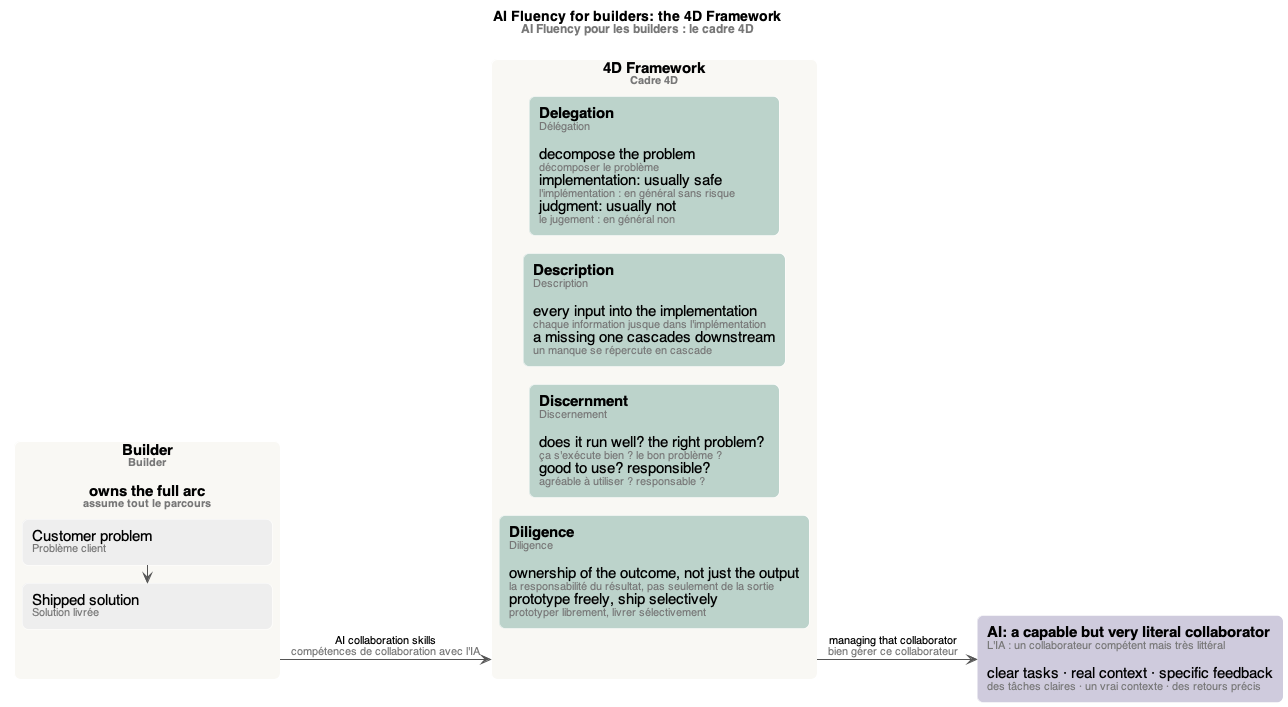
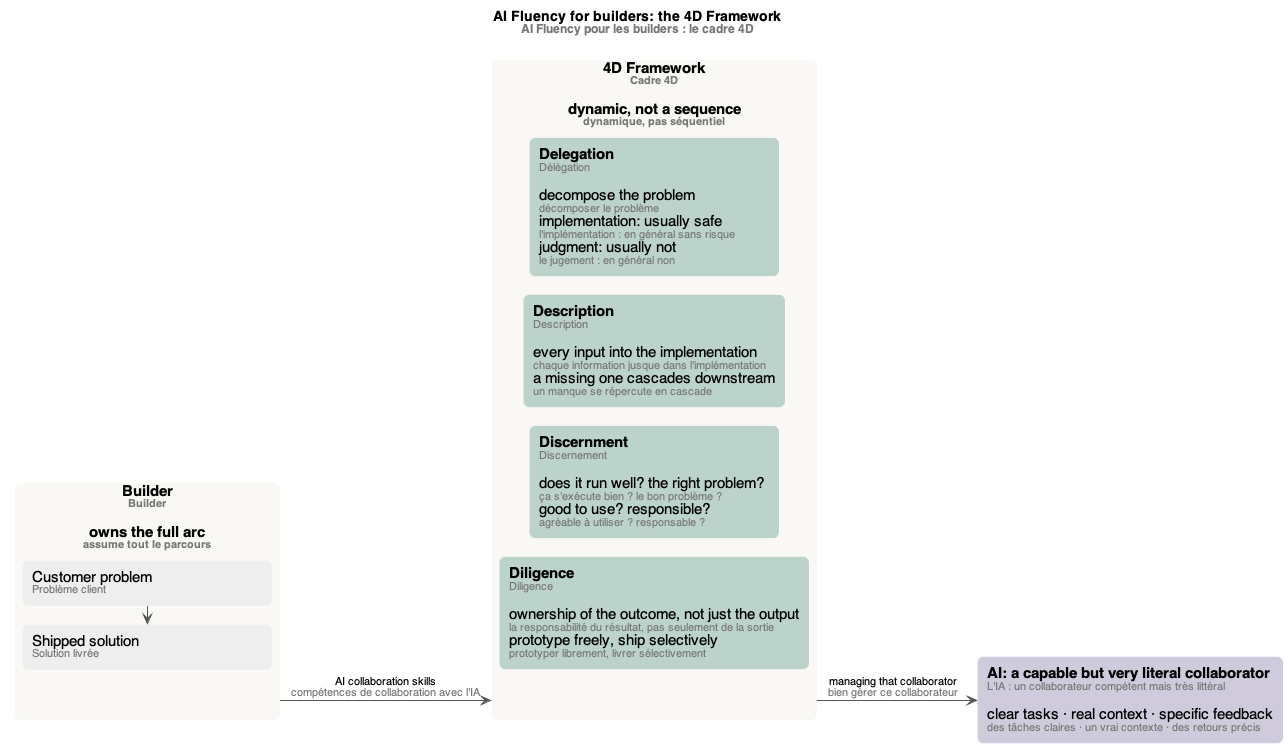
docs: add the closing lesson's takeaways to the builder entries and 4D map

diff --git a/02-ai-fluency-for-builders/index.md b/02-ai-fluency-for-builders/index.md
@@ -15,7 +15,7 @@ Schémas, avec un sommaire et une légende pour chacun : [mindmap.md](mindmap.md
 
 ### Builder *(Builder)*
 
-Someone who owns the full arc from customer problem to shipped solution: figuring out what problem was actually worth solving, making hundreds of small decisions about how it should work, then getting it into people's hands and learning from what happened next. Writing code is only a small part of the job: a builder owns the full building process, not just the coding slice in the middle. Builders (product people, engineers, designers and makers) are uniquely positioned to leverage AI to amplify what they create, but only if they can approach it intentionally, with clear judgment and purpose; AI is changing almost every part of that process. Their AI collaboration skills are the [4D Framework](#4d-framework-cadre-4d) applied to real builder tasks, from framing a customer problem to shipping a product, integrating AI responsibly across the full arc of building. Every builder carries a [toolkit](#builders-toolkit-boîte-à-outils-du-builder) of six capabilities. The builders who thrive in this era won't be the ones who prompt the fastest: they will be the ones who frame problems clearly, who know what good looks like before they start, and who can tell the difference between code that runs and code that matters. The builder is the translator at every step of the [Description Chain](#description-chain-chaîne-de-description), and builders who carefully describe all aspects of the problem get the best results with AI.
+Someone who owns the full arc from customer problem to shipped solution: figuring out what problem was actually worth solving, making hundreds of small decisions about how it should work, then getting it into people's hands and learning from what happened next. Writing code is only a small part of the job: a builder owns the full building process, not just the coding slice in the middle. Builders (product people, engineers, designers and makers) are uniquely positioned to leverage AI to amplify what they create, but only if they can approach it intentionally, with clear judgment and purpose; AI is changing almost every part of that process. Their AI collaboration skills are the [4D Framework](#4d-framework-cadre-4d) applied to real builder tasks, from framing a customer problem to shipping a product, integrating AI responsibly across the full arc of building. Every builder carries a [toolkit](#builders-toolkit-boîte-à-outils-du-builder) of six capabilities. The builders who thrive in this era won't be the ones who prompt the fastest: they will be the ones who frame problems clearly, who know what good looks like before they start, and who can tell the difference between code that runs and code that matters. The builder is the translator at every step of the [Description Chain](#description-chain-chaîne-de-description), and builders who carefully describe all aspects of the problem get the best results with AI. The builder's job isn't to defend the software: it's to serve the user. The builders who will do the most interesting things with AI in the next few years aren't the ones who automate the most: they know when to delegate, and when to stay in the loop, and care enough about their users to not just ship something because it compiles.
 
 → [schéma des 4D du builder](mindmap/builder-4ds.png)
 
@@ -27,13 +27,13 @@ The ability to work with AI systems in ways that are effective, efficient, ethic
 
 ### 4D Framework *(Cadre 4D)*
 
-The framework at the center of the course, developed by professors Joseph Feller and Rick Dakan in collaboration with Anthropic. It consists of four competencies: [Delegation](#delegation-délégation), [Description](#description-description), [Discernment](#discernment-discernement) and [Diligence](#diligence-diligence), the four competencies behind every productive AI collaboration. Think of them as the operating system underneath every collaboration you have with AI; they anchor every lesson of the course. Most AI failures trace back to Description, Discernment, or Diligence failures made earlier. Two modes of interaction: the [inner loop](#inner-loop-boucle-interne) (Description and Discernment) guides daily AI interactions; the [outer loop](#outer-loop-boucle-externe) (Delegation and Diligence) guides bigger decisions about when and how to use AI. The 4Ds come alive when you use them together; the framework is about making you more effective at the work that matters, work that requires human judgment, creativity, and deep understanding of your context. The competencies of [AI Fluency](#ai-fluency-ai-fluency).
+The framework at the center of the course, developed by professors Joseph Feller and Rick Dakan in collaboration with Anthropic. It consists of four competencies: [Delegation](#delegation-délégation), [Description](#description-description), [Discernment](#discernment-discernement) and [Diligence](#diligence-diligence), the four competencies behind every productive AI collaboration. Think of them as the operating system underneath every collaboration you have with AI; they anchor every lesson of the course. Most AI failures trace back to Description, Discernment, or Diligence failures made earlier. Two modes of interaction: the [inner loop](#inner-loop-boucle-interne) (Description and Discernment) guides daily AI interactions; the [outer loop](#outer-loop-boucle-externe) (Delegation and Diligence) guides bigger decisions about when and how to use AI. The 4Ds come alive when you use them together; the framework is about making you more effective at the work that matters, work that requires human judgment, creativity, and deep understanding of your context. The 4Ds are dynamic, not a sequence: you'll move from Delegation to Description, back to Discernment, and realize you want to delegate differently; moving fluidly between them as you build is what fluency looks like in practice. The competencies of [AI Fluency](#ai-fluency-ai-fluency).
 
 → [schéma des 4D du builder](mindmap/builder-4ds.png)
 
 ### Delegation *(Délégation)*
 
-Decomposing a problem into parts and deciding what role AI plays at each stage: if, when and where to delegate to AI in the builder process, and defining done before you write a line of code. Delegating [implementation](#implementation-implémentation) to AI is usually fine (safe); delegating [judgment](#judgment-jugement), the call about whether something is actually good and ready, is usually not advised. The best builders know the difference. Delegation means deciding what AI handles and what stays with you: what work should be done by humans, what work should be done by AI, and how to distribute tasks between them. Good Delegation starts with understanding the work itself (a routine status update where AI can handle a first draft, or a sensitive negotiation where tone and nuance need to come directly from you), and you need to understand your tools as well (with confidential data, the privacy and security features of the AI system you're using); then you can thoughtfully split tasks to leverage the strengths of each. In the builder sense, imagine yourself as the lead on a project and AI as your team: a great lead doesn't just assign tasks; they frame the problem so everyone understands what they're solving, set goals so the team knows what good looks like, decide what to tackle first, and know which decisions to make themselves and which ones to hand off. It starts well before any code gets written: decomposing the problem first, then deciding what AI handles at each step, across the [builder's toolkit](#builders-toolkit-boîte-à-outils-du-builder). Good Delegation in practice: spending real time at the beginning of a project getting clear on who you're building for and defining what success means ([acceptance tests](#acceptance-test-test-dacceptation)), inspecting the results skeptically, and keeping judgment calls in your own hands. Resist the temptation, once you have a tool that can write code instantly, to skip straight to building and treat empathy and design work as overhead. With Diligence, it forms the [outer loop](#outer-loop-boucle-externe). One of the competencies of the [4D Framework](#4d-framework-cadre-4d).
+Decomposing a problem into parts and deciding what role AI plays at each stage: if, when and where to delegate to AI in the builder process, and defining done before you write a line of code. Delegating [implementation](#implementation-implémentation) to AI is usually fine (safe); delegating [judgment](#judgment-jugement), the call about whether something is actually good and ready, is usually not advised. The best builders know the difference. Delegation means deciding what AI handles and what stays with you: what work should be done by humans, what work should be done by AI, and how to distribute tasks between them. Good Delegation starts with understanding the work itself (a routine status update where AI can handle a first draft, or a sensitive negotiation where tone and nuance need to come directly from you), and you need to understand your tools as well (with confidential data, the privacy and security features of the AI system you're using); then you can thoughtfully split tasks to leverage the strengths of each. In the builder sense, imagine yourself as the lead on a project and AI as your team: a great lead doesn't just assign tasks; they frame the problem so everyone understands what they're solving, set goals so the team knows what good looks like, decide what to tackle first, and know which decisions to make themselves and which ones to hand off. It starts well before any code gets written: decomposing the problem first, then deciding what AI handles at each step, across the [builder's toolkit](#builders-toolkit-boîte-à-outils-du-builder). Good Delegation in practice: spending real time at the beginning of a project getting clear on who you're building for and defining what success means ([acceptance tests](#acceptance-test-test-dacceptation)), inspecting the results skeptically, and keeping judgment calls in your own hands. Break the problem down: the parts of the work that genuinely benefit from AI (implementation, scaffolding, boilerplate, first drafts of specs) are strong candidates; the judgment calls, the understanding of who your user actually is and what they might be struggling with, and the decision about whether the thing you built is actually the right thing belong to you. Resist the temptation, once you have a tool that can write code instantly, to skip straight to building and treat empathy and design work as overhead. With Diligence, it forms the [outer loop](#outer-loop-boucle-externe). One of the competencies of the [4D Framework](#4d-framework-cadre-4d).
 
 → [schéma des 4D du builder](mindmap/builder-4ds.png)
 
@@ -45,13 +45,13 @@ A builder's ability to ensure that every input, from user voice to product requi
 
 ### Discernment *(Discernement)*
 
-How you evaluate what AI gives you: not just does it run, but does it run well? Does it solve the right problem? Is it actually good to use, and is it responsible? You evaluate AI output against what actually matters: correctness, quality, fit, experience, and responsibility. AI has real blind spots: it can produce code that's locally correct, but breaks under load, or generate UX that's functional, but confusing. Discernment is the skill of catching those gaps before your users do. Discernment means evaluating what AI gives back before acting on it, thoughtfully and critically: start with the output itself, then look at how AI got there. It doesn't just mean accepting or rejecting AI outputs: it involves iteration to get where you want to go. While most people describe what they want fairly naturally, Discernment is much rarer: questioning AI's reasoning, checking facts, and identifying missing context were among the least common behaviors observed. Its structure: the [Five Lenses of Discernment](#five-lenses-of-discernment-cinq-angles-du-discernement), five questions to ask of anything that AI builds. With Description, it forms the [inner loop](#inner-loop-boucle-interne). One of the competencies of the [4D Framework](#4d-framework-cadre-4d).
+How you evaluate what AI gives you: not just does it run, but does it run well? Does it solve the right problem? Is it actually good to use, and is it responsible? You evaluate AI output against what actually matters: correctness, quality, fit, experience, and responsibility. AI has real blind spots: it can produce code that's locally correct, but breaks under load, or generate UX that's functional, but confusing. Discernment is the skill of catching those gaps before your users do. Apply it before shipping: AI output often passes « Does it work? » but stumbles on « Is it the right thing? », and those gaps are where your judgment matters most. Sometimes AI builds the thing you describe, but not the thing that solves the problem; or it builds the thing that works, but one that people don't want to use. Discernment means evaluating what AI gives back before acting on it, thoughtfully and critically: start with the output itself, then look at how AI got there. It doesn't just mean accepting or rejecting AI outputs: it involves iteration to get where you want to go. While most people describe what they want fairly naturally, Discernment is much rarer: questioning AI's reasoning, checking facts, and identifying missing context were among the least common behaviors observed. Its structure: the [Five Lenses of Discernment](#five-lenses-of-discernment-cinq-angles-du-discernement), five questions to ask of anything that AI builds. With Description, it forms the [inner loop](#inner-loop-boucle-interne). One of the competencies of the [4D Framework](#4d-framework-cadre-4d).
 
 → [schéma des 4D du builder](mindmap/builder-4ds.png) · [schéma des cinq angles du Discernement](mindmap/five-lenses.png)
 
 ### Diligence *(Diligence)*
 
-Full ownership of the outcome, not just the output: taking full ownership of what you build with AI. [Shipping](#shipping-livraison) is a skill with its own technical realities that AI rarely surfaces proactively: migrations, rate limiting, monitoring. What happens when something breaks at 2 a.m. and you're the one who built it? Prototype freely, ship selectively, and be willing to veto something you built when the evidence says it isn't right. Diligence means owning the final result fully, regardless of AI's role: taking responsibility for how you use AI, being thoughtful about which AI systems you use and how you interact with them, being honest about AI's role in your work with the people who need to know, and verifying and vouching for the outputs you use or share. You're always accountable for the final result. In the builder model, Diligence is full ownership: you're responsible for the product from whether it should exist to whether it's serving users after launch. You own the outcome, not the output: « AI wrote it » explains nothing and excuses nothing. In the 4D Framework, it means taking responsibility for what you build with AI, making sure your use of AI is transparent, ethical, and accountable: being transparent about your AI use and disclosing it, taking ownership of the outputs that AI creates, verifying work before you ship, considering the impact of what you built on others, and honoring policies, privacy, and professional standards that govern AI use in your organization or industry. With AI, you can end up being the owner of code you didn't write: Diligence is how you catch up to your own code, through three [habits](#habits-of-diligence-habitudes-de-la-diligence). Cheap code creates value only when paired with honest evaluation, and deprecating your own work is an underrated skill. Access is a design decision: check who your assumptions exclude before you call something shipped. With Delegation, it forms the [outer loop](#outer-loop-boucle-externe). One of the competencies of the [4D Framework](#4d-framework-cadre-4d).
+Full ownership of the outcome, not just the output: taking full ownership of what you build with AI. [Shipping](#shipping-livraison) is a skill with its own technical realities that AI rarely surfaces proactively: migrations, rate limiting, monitoring. What happens when something breaks at 2 a.m. and you're the one who built it? Prototype freely, ship selectively, and be willing to veto something you built when the evidence says it isn't right: sunk effort is one of the hardest things to walk away from, but the builder's job isn't to defend the software, it's to serve the user. Before anything goes to users, ask: « Do I understand what this does? » Can I explain it? Is there a way to know if it's working? Diligence means owning the final result fully, regardless of AI's role: taking responsibility for how you use AI, being thoughtful about which AI systems you use and how you interact with them, being honest about AI's role in your work with the people who need to know, and verifying and vouching for the outputs you use or share. You're always accountable for the final result. In the builder model, Diligence is full ownership: you're responsible for the product from whether it should exist to whether it's serving users after launch. You own the outcome, not the output: « AI wrote it » explains nothing and excuses nothing. In the 4D Framework, it means taking responsibility for what you build with AI, making sure your use of AI is transparent, ethical, and accountable: being transparent about your AI use and disclosing it, taking ownership of the outputs that AI creates, verifying work before you ship, considering the impact of what you built on others, and honoring policies, privacy, and professional standards that govern AI use in your organization or industry. With AI, you can end up being the owner of code you didn't write: Diligence is how you catch up to your own code, through three [habits](#habits-of-diligence-habitudes-de-la-diligence). Cheap code creates value only when paired with honest evaluation, and deprecating your own work is an underrated skill. Access is a design decision: check who your assumptions exclude before you call something shipped. With Delegation, it forms the [outer loop](#outer-loop-boucle-externe). One of the competencies of the [4D Framework](#4d-framework-cadre-4d).
 
 → [schéma des 4D du builder](mindmap/builder-4ds.png) · [schéma des habitudes de la Diligence](mindmap/diligence-habits.png)
 
@@ -159,7 +159,7 @@ A technique researchers use to address current limitations of [generative AI](#g
 
 ### Builder's toolkit *(Boîte à outils du builder)*
 
-The six capabilities every [builder](#builder-builder) carries, maybe without knowing it, and can reach for at any moment in a build: [Empathy](#empathy-empathie), [Design](#design-design), [Architecture](#architecture-architecture), [Implementation](#implementation-implémentation), [Judgment](#judgment-jugement) and [Shipping](#shipping-livraison). AI can help with all six, but it's much stronger at some than others, and knowing the difference is a key part of AI fluency for builders. Implementation sits right in the middle, and that's where AI is the strongest; empathy, judgment, and shipping sit at the edges, and that's where AI is the weakest. The key insight of the course: AI is the strongest in the middle of the toolkit, and weakest at the edges; the edges are where the human work lives, and where the value is. The faster AI makes implementation, the more your value shifts to everything around it: framing problems and raising the bar. [Delegation](#delegation-délégation) decides what AI handles at each step. The four steps of the [Description Chain](#description-chain-chaîne-de-description) are directly tied to its capabilities.
+The six capabilities every [builder](#builder-builder) carries, maybe without knowing it, and can reach for at any moment in a build: [Empathy](#empathy-empathie), [Design](#design-design), [Architecture](#architecture-architecture), [Implementation](#implementation-implémentation), [Judgment](#judgment-jugement) and [Shipping](#shipping-livraison). AI can help with all six, but it's much stronger at some than others, and knowing the difference is a key part of AI fluency for builders. Implementation sits right in the middle, and that's where AI is the strongest; empathy, judgment, and shipping sit at the edges, and that's where AI is the weakest. The key insight of the course: AI is the strongest in the middle of the toolkit, and weakest at the edges; the edges are where the human work lives, and where the value is: AI can't feel what your user feels, and can't tell whether what you shipped actually made a difference. Delegate implementation freely; keep empathy, judgment, and shipping in your hands. The faster AI makes implementation, the more your value shifts to everything around it: framing problems and raising the bar. [Delegation](#delegation-délégation) decides what AI handles at each step. The four steps of the [Description Chain](#description-chain-chaîne-de-description) are directly tied to its capabilities.
 
 → [schéma de la boîte à outils du builder](mindmap/builders-toolkit.png)
 
@@ -207,7 +207,7 @@ A test written before code, that defines done before a single line of code exist
 
 ### Description Chain *(Chaîne de Description)*
 
-The full path from a messy human need to a precise instruction AI can act on, with the [builder](#builder-builder) as the translator at every step: it connects [user voice](#user-voice-voix-de-lutilisateur) to [product requirement](#product-requirement-exigence-produit) to [technical spec](#technical-spec-spécification-technique) to [AI instruction](#ai-instruction-instruction-pour-lia). Most AI training teaches you to write better prompts, and treats [Description](#description-description) as prompt engineering: that's necessary but not sufficient for building great products; prompt engineering is only one link. Four steps directly tied to the capabilities in the [builder's toolkit](#builders-toolkit-boîte-à-outils-du-builder): before [implementation](#implementation-implémentation), you have to define the user need. Every step involves judgment calls the previous phase did not make for you. AI can't hear what the user didn't say: your job is to carry what you know intact as you describe what you need to the AI. When the translation breaks, you get a [Description failure](#description-failure-erreur-de-description): find which link broke upstream.
+The full path from a messy human need to a precise instruction AI can act on, with the [builder](#builder-builder) as the translator at every step: it connects [user voice](#user-voice-voix-de-lutilisateur) to [product requirement](#product-requirement-exigence-produit) to [technical spec](#technical-spec-spécification-technique) to [AI instruction](#ai-instruction-instruction-pour-lia). Most AI training teaches you to write better prompts, and treats [Description](#description-description) as prompt engineering: that's necessary but not sufficient for building great products; prompt engineering is only one link. Four steps directly tied to the capabilities in the [builder's toolkit](#builders-toolkit-boîte-à-outils-du-builder): before [implementation](#implementation-implémentation), you have to define the user need. Every step involves judgment calls the previous phase did not make for you. AI can't hear what the user didn't say: your job is to carry what you know intact as you describe what you need to the AI. Robust description means following the full chain, all the way to tests: user voice to requirement to spec to AI instruction to tests; a failure at any link cascades downstream. When the translation breaks, you get a [Description failure](#description-failure-erreur-de-description): find which link broke upstream.
 
 → [schéma de la chaîne de Description](mindmap/description-chain.png)
 
